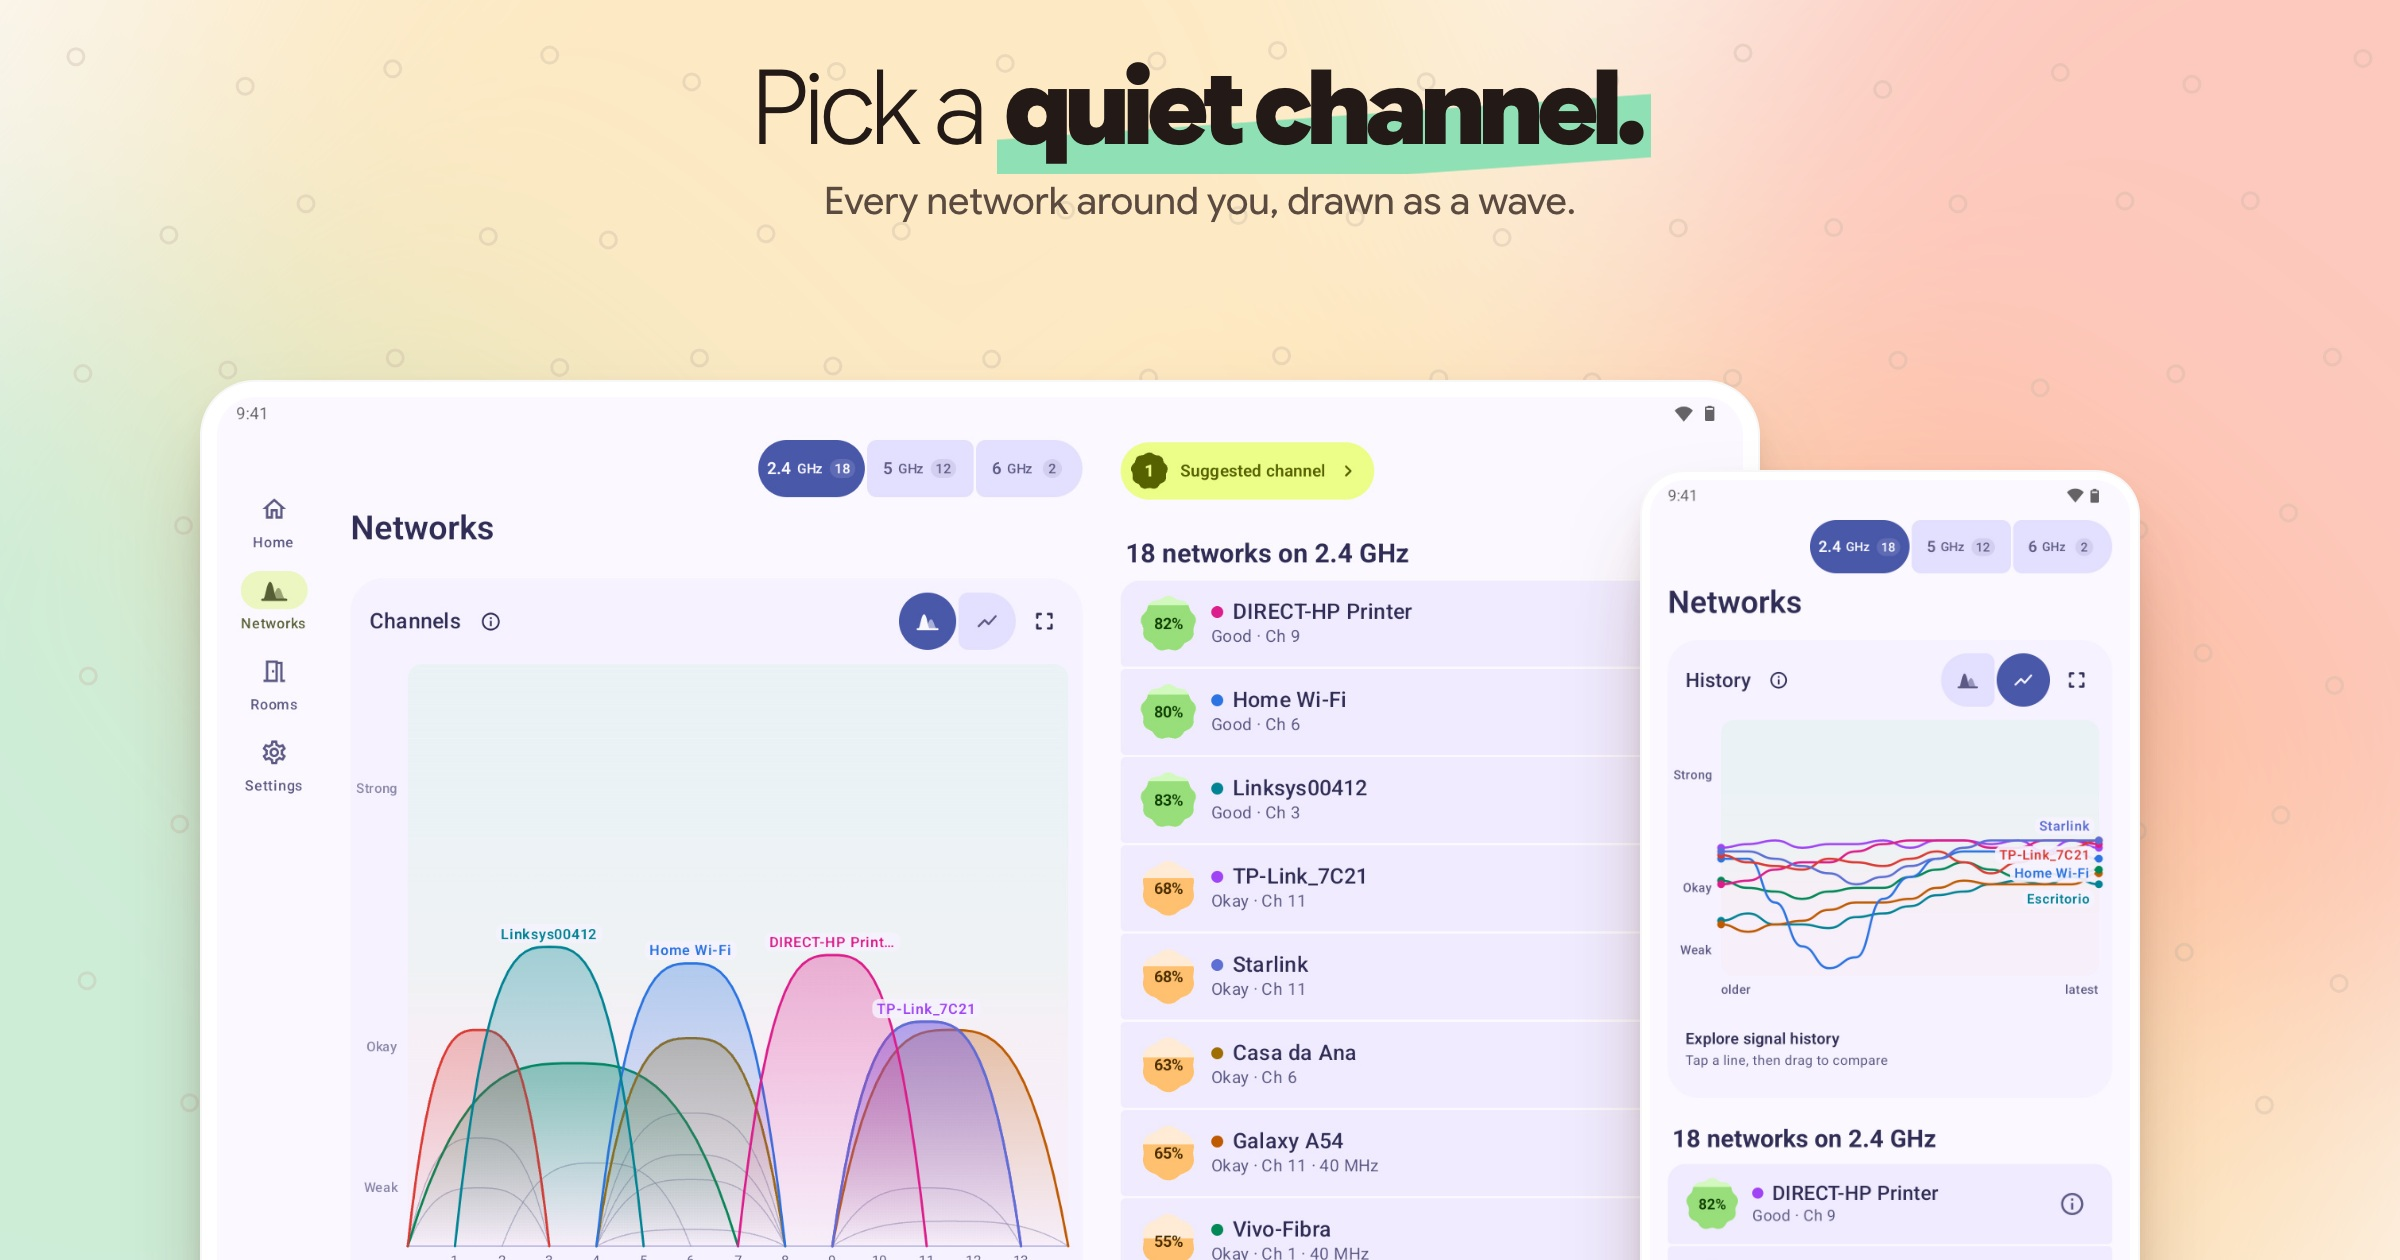
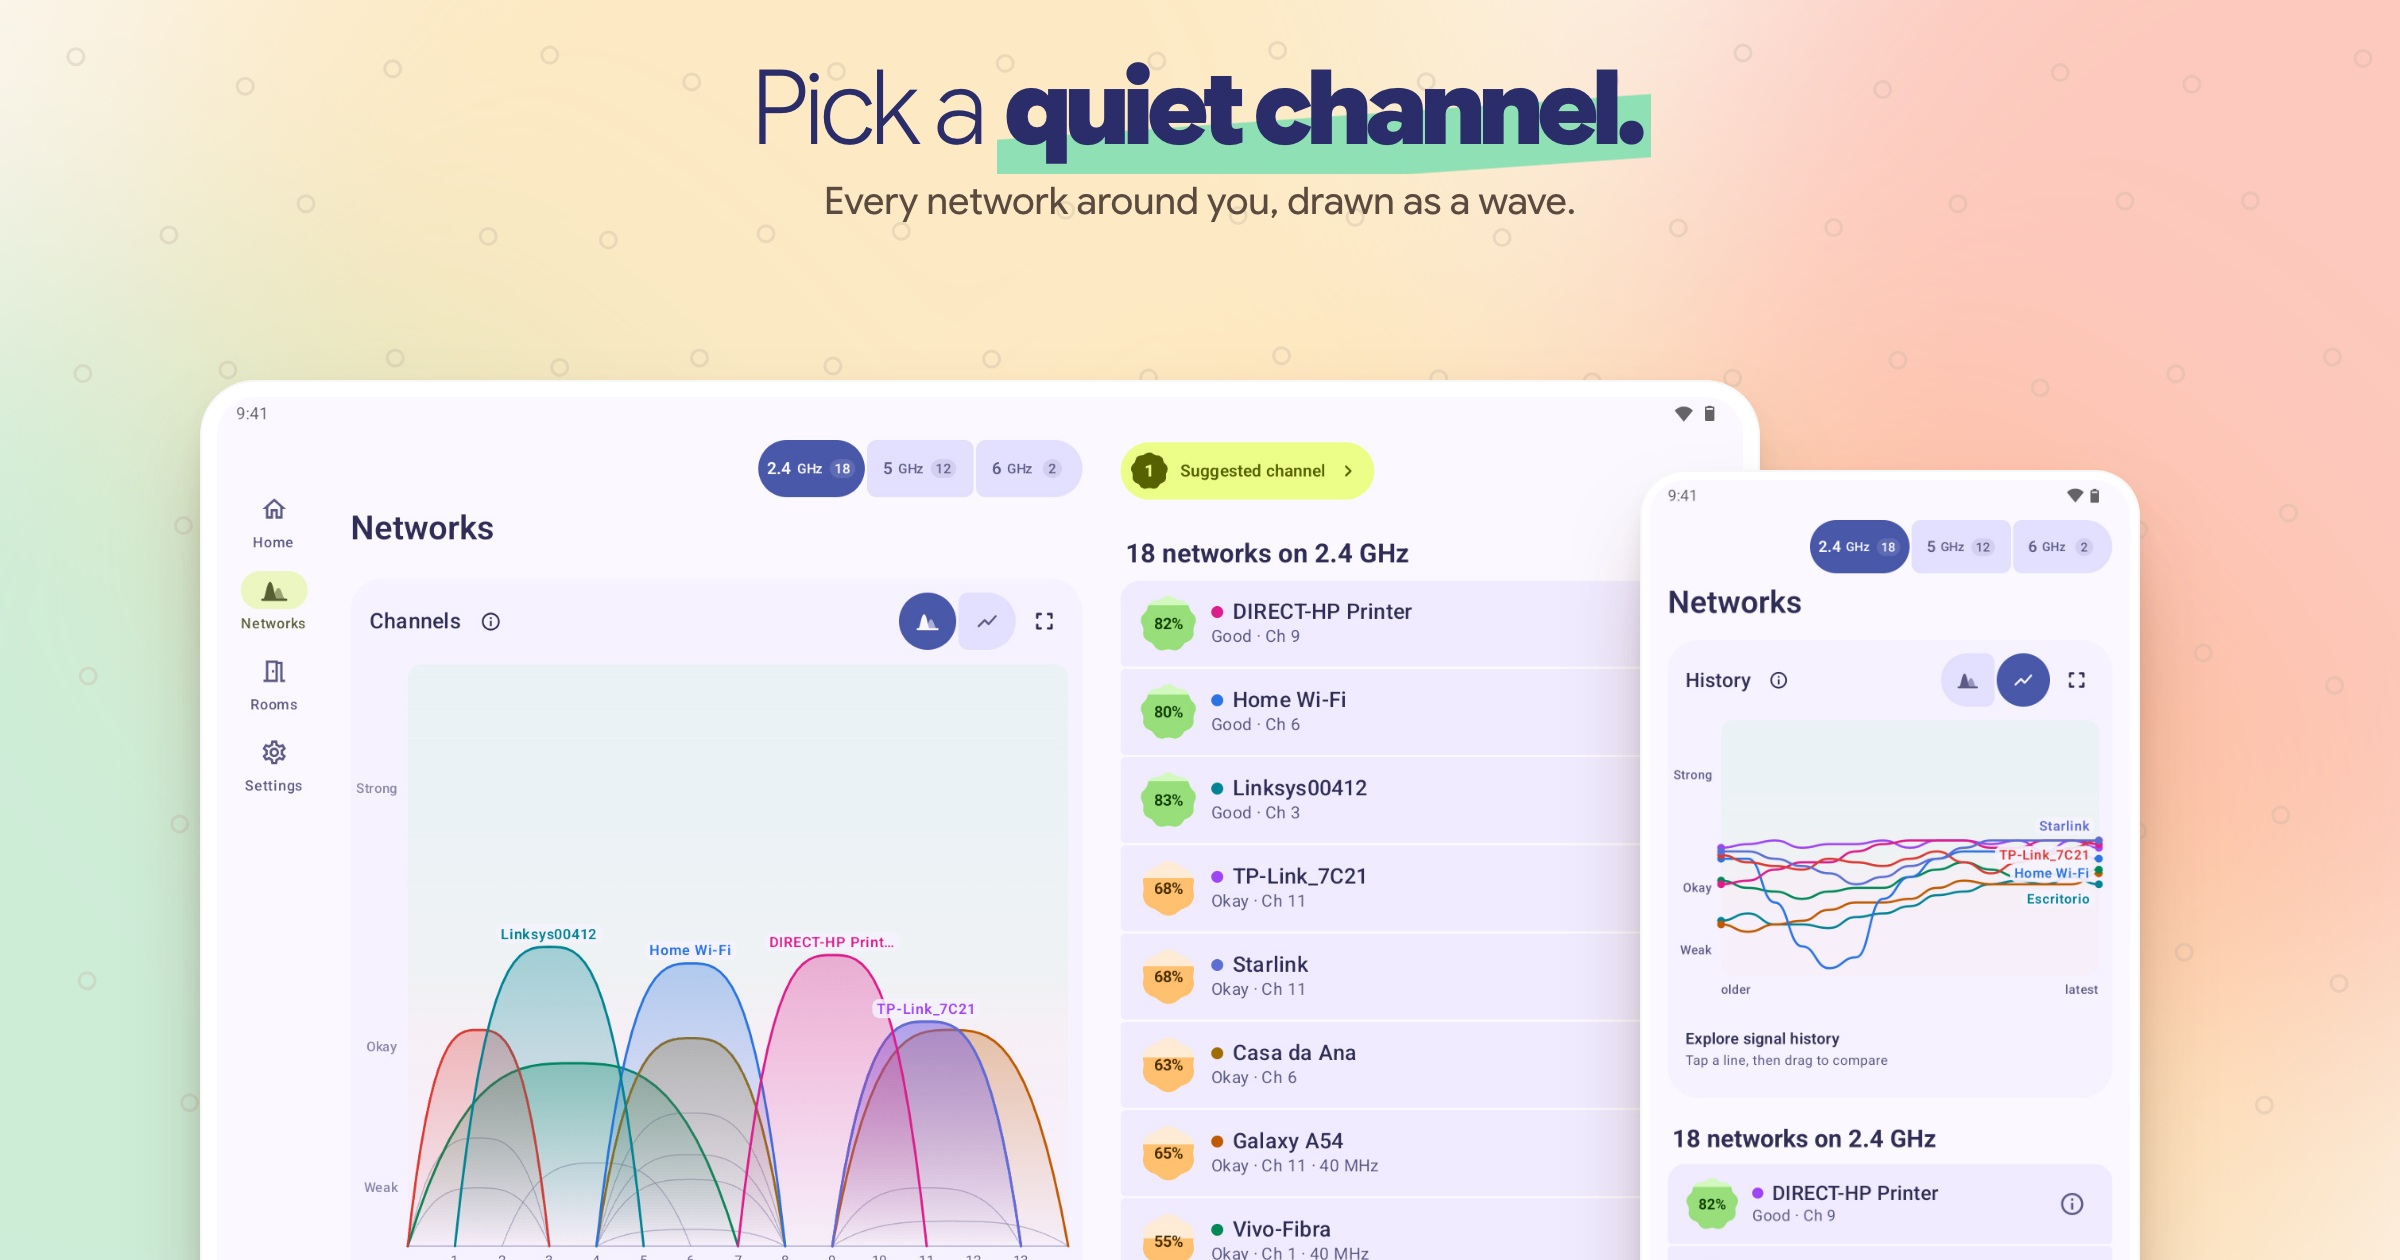
Tools image: parallel titles above each phone, indigo ink, no subtitles

Changed region(s): [[0.3125, 0.031, 0.6875, 0.1238]]

diff --git a/store-listing/theme.css b/store-listing/theme.css
@@ -52,7 +52,7 @@ header p{margin:30px 0 0;font-size:40px;line-height:1.25;font-weight:450;color:#
 .desktop .device{--bezel:0px;--radius:20px;left:220px;top:330px;width:1480px}
 
 /* README art: the coverage-map field, dark ink copy, and the real app large. */
-.readme{--ink:#231a17}
+.readme{--ink:#2b2d6b}
 .readme h1 em,.readme .device-label em{font-style:normal;color:inherit;padding:0 .08em;margin:0 -.04em;
   background:linear-gradient(176deg,transparent 54%,var(--hl,#ffc46b) 55%,var(--hl,#ffc46b) 90%,transparent 91%)}
 .readme header p{color:#5b4a40;white-space:pre-line}
@@ -70,11 +70,10 @@ header p{margin:30px 0 0;font-size:40px;line-height:1.25;font-weight:450;color:#
 .readme .wide .front{--bezel:12px;--radius:58px;left:1640px;top:470px;width:500px;z-index:4}
 /* Trio: three phones in a staggered rhythm, the middle one raised, each under its own short headline. */
 .readme .trio .device{--bezel:12px;--radius:60px;width:620px}
-.readme .trio .one{left:110px;top:420px}
-.readme .trio .two{left:890px;top:330px}
-.readme .trio .three{left:1670px;top:420px}
-.readme .trio .device-label{top:84px !important;transform:none;text-align:left;font-size:60px;line-height:1.15;font-weight:720;letter-spacing:-.03em;color:var(--ink)}
-.readme .trio .device-label::after{display:block;margin-top:10px;font-size:34px;line-height:1.3;font-weight:450;letter-spacing:0;color:#6b5a50}
-.readme .trio .device-label.one{--hl:#ffc46b}.readme .trio .device-label.one::after{content:"How fast it answers, and how steady."}
-.readme .trio .device-label.two{--hl:#8fe0b4}.readme .trio .device-label.two::after{content:"Every device, then ping and DNS."}
-.readme .trio .device-label.three{--hl:#ff9e8c}.readme .trio .device-label.three::after{content:"Wallpaper colors and four styles."}
+.readme .trio .one{left:110px;top:400px}
+.readme .trio .two{left:890px;top:270px}
+.readme .trio .three{left:1670px;top:400px}
+.readme .trio .device-label{transform:translateY(calc(-100% - 28px));text-align:left;font-size:60px;line-height:1.1;font-weight:720;letter-spacing:-.03em;color:var(--ink)}
+.readme .trio .device-label.one{--hl:#ffc46b}
+.readme .trio .device-label.two{--hl:#8fe0b4}
+.readme .trio .device-label.three{--hl:#ff9e8c}
